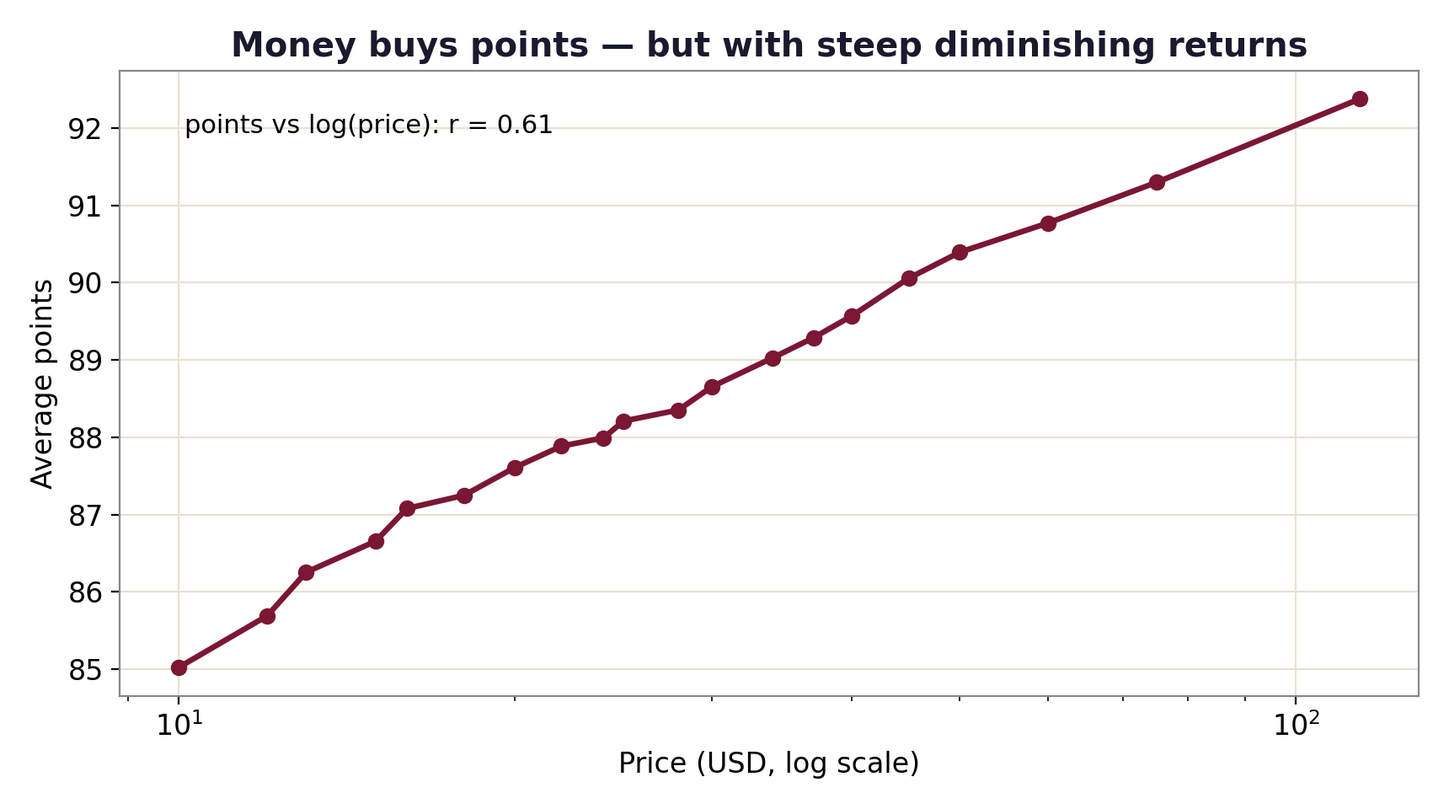
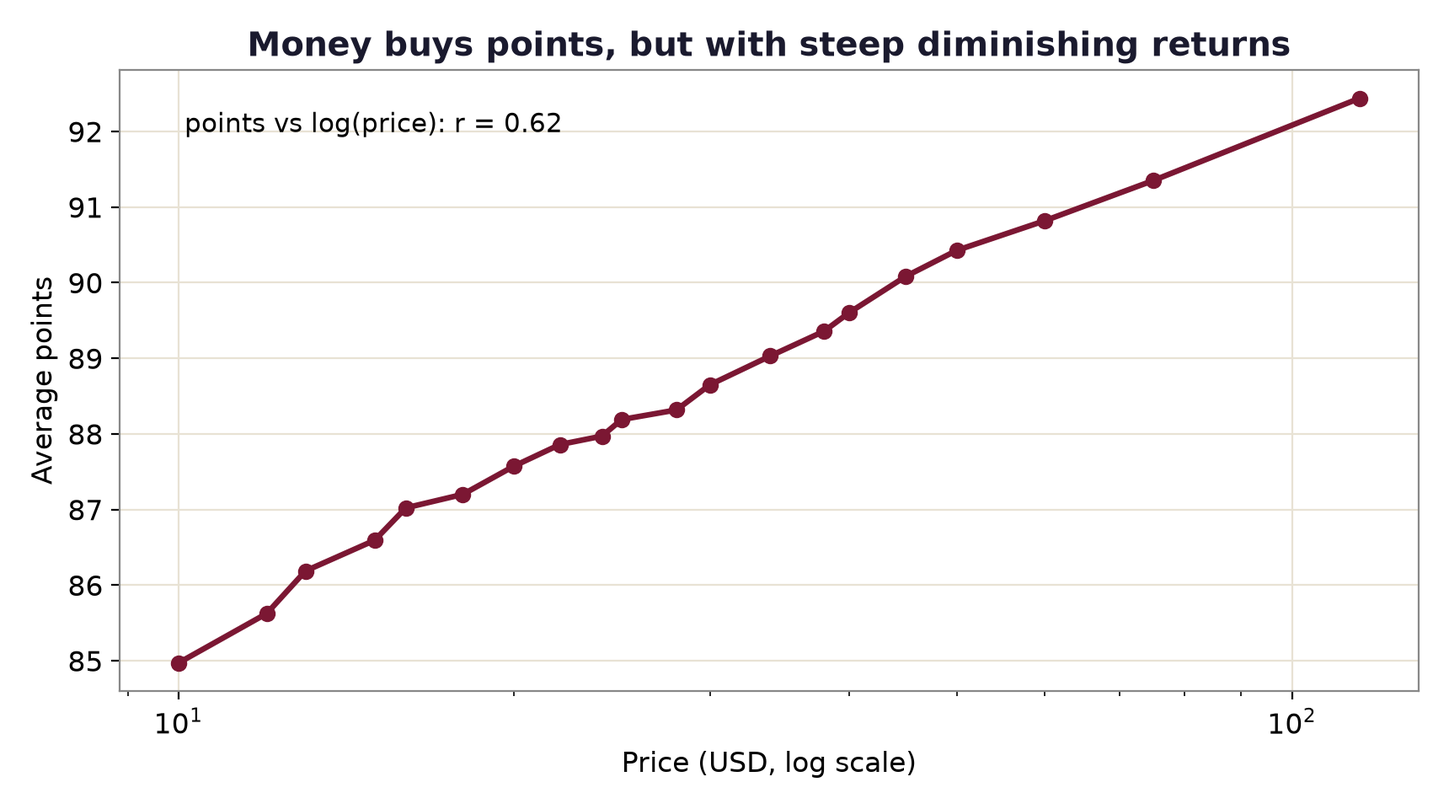
Drop duplicate reviews and update every published number
The source CSV repeats 9,983 reviews word for word. analyze.py now drops
exact duplicates, leaving 119,988 reviews. Share scoring 84 to 92 moves
from 85.7% to 85.0%, r from 0.61 to 0.62, the $10 average from 85.3 to
85.2, the mean from 88.45 to 88.44, the vintage trend from 0.09 to 0.08
points per decade and the top taster mean from 90.0 to 90.1. Adds a dated
correction note to the README, write-up and both pages.

diff --git a/overview/index.html b/overview/index.html
@@ -4,13 +4,12 @@
 <meta charset="utf-8" />
 <meta name="viewport" content="width=device-width, initial-scale=1, viewport-fit=cover" />
 <title>Wine score inflation: the 100-point scale that works as 8 points</title>
-<meta name="description" content="In 129,971 Wine Enthusiast reviews, nothing is published below 80 and 85.7% of wines score between 84 and 92. Points rise with log price (r = 0.61), about two points for each doubling of price." />
+<meta name="description" content="In 119,988 unique Wine Enthusiast reviews, nothing is published below 80 and 85.0% of wines score between 84 and 92. Points rise with log price (r = 0.62), about two points for each doubling of price." />
 <meta name="theme-color" content="#F1ECE3" />
 <meta property="og:title" content="The 100-point wine scale uses about eight points" />
-<meta property="og:description" content="129,971 professional wine reviews. Nothing below 80, and 85.7% of wines between 84 and 92." />
+<meta property="og:description" content="119,988 professional wine reviews. Nothing below 80, and 85.0% of wines between 84 and 92." />
 <meta property="og:type" content="article" />
 <meta property="og:url" content="https://lyhjeremy.github.io/wine-score-inflation/overview/" />
-<link href="" rel="stylesheet" />
 <style>
   :root {
     --paper: #F1ECE3;
@@ -308,7 +307,7 @@
 <div class="wrap">
   <header class="masthead">
     <div class="logo"><span class="dot" aria-hidden="true"></span>Wine Score Inflation</div>
-    <div class="tagline">129,971 Wine Enthusiast reviews</div>
+    <div class="tagline">119,988 Wine Enthusiast reviews</div>
   </header>
 
   <section class="hero">
@@ -316,10 +315,10 @@
     <h1>The 100-point wine scale uses about eight points</h1>
 
     <p class="hero-sub">
-      Of 129,971 Wine Enthusiast reviews, none is published below <strong>80</strong> and
-      <strong>85.7%</strong> land between <strong>84 and 92</strong>. Inside that band,
+      Of 119,988 unique Wine Enthusiast reviews, none is published below <strong>80</strong> and
+      <strong>85.0%</strong> land between <strong>84 and 92</strong>. Inside that band,
       each doubling of price buys about two points, vintage changes almost nothing, and the
-      ten most prolific reviewers differ by <strong>3.1 points</strong> on average.
+      ten most prolific reviewers differ by <strong>3.2 points</strong> on average.
     </p>
 
     <div class="cta-row">
@@ -333,16 +332,16 @@
         <p>The lowest score in the dataset. The usable scale starts four fifths of the way up.</p>
       </div>
       <div class="claim">
-        <div class="n">85.7%</div>
+        <div class="n">85.0%</div>
         <p>Of wines score between 84 and 92, a band eight points wide.</p>
       </div>
       <div class="claim">
-        <div class="n">r = 0.61</div>
-        <p>Between points and log price. Wines near $10 average 85.3 points; wines near $100 average 91.9.</p>
+        <div class="n">r = 0.62</div>
+        <p>Between points and log price. Wines near $10 average 85.2 points; wines near $100 average 91.9.</p>
       </div>
       <div class="claim">
-        <div class="n">3.1 pts</div>
-        <p>Between the most and least generous of the ten most prolific tasters (86.9 against 90.0).</p>
+        <div class="n">3.2 pts</div>
+        <p>Between the most and least generous of the ten most prolific tasters (86.9 against 90.1).</p>
       </div>
     </div>
   </section>
@@ -367,7 +366,7 @@
 
     <div class="tag" role="group" aria-labelledby="ws-tag-h">
       <h3 id="ws-tag-h">Read a shelf tag</h3>
-      <p class="sub">against 129,971 reviews</p>
+      <p class="sub">against 119,988 reviews</p>
       <div class="inputs">
         <div>
           <label for="ws-score">Score on the tag</label>
@@ -392,12 +391,12 @@
     <h2>A floor at 80 and a hump in the high 80s</h2>
 
     <div class="bignum">8 pts</div>
-    <p class="bignum-note">The width of the band that holds 85.7% of all wines.</p>
+    <p class="bignum-note">The width of the band that holds 85.0% of all wines.</p>
 
     <p>
       The scores form a narrow hump that starts at a cliff. Nothing below 80 is published,
       which is the magazine's editorial choice and says nothing about the wines. The mean is
-      88.45 and the median is 88. A scale can be inflated in this structural sense without
+      88.44 and the median is 88. A scale can be inflated in this structural sense without
       any year-on-year creep: the bottom four fifths simply never get printed.
     </p>
     <figure>
@@ -414,11 +413,11 @@
     <p class="eyebrow">What money buys</p>
     <h2>Each doubling of price buys about two points</h2>
     <p>
-      Against the logarithm of price the correlation is <strong>r = 0.61</strong>, strong for
+      Against the logarithm of price the correlation is <strong>r = 0.62</strong>, strong for
       data this noisy. On a log axis the curve over twenty equal-count price bins is close to
-      a straight line: $10 to $20 adds 2.6 points, and $50 to about $114 adds 2.0. In dollars
+      a straight line: $10 to $20 adds 2.6 points, and $50 to about $115 adds 2.0. In dollars
       that is a steep diminishing return. A tenfold step from about <strong>$10 to about
-      $100</strong> moves the average from <strong>85.3 to 91.9</strong>, and the first ten
+      $100</strong> moves the average from <strong>85.2 to 91.9</strong>, and the first ten
       dollars of that step buy more points than the last fifty.
     </p>
     <figure>
@@ -437,19 +436,19 @@
     <h2>Vintage barely moves the score. The taster moves it more.</h2>
     <p>
       Average score by vintage, 1995 to 2016, is close to flat: a fitted slope of
-      <strong>0.09 points per decade</strong>. Good and bad years exist for a given region,
+      <strong>0.08 points per decade</strong>. Good and bad years exist for a given region,
       but they don't show in the mean of a catalog this broad.
     </p>
     <p>
       Among the ten tasters with the most reviews, average scores run from <strong>86.9 to
-      90.0</strong>. That 3.1-point spread is about half of what a tenfold price increase
+      90.1</strong>. That 3.2-point spread is about half of what a tenfold price increase
       buys, and more than a third of the band where most wines sit, from a change of author
       alone.
     </p>
     <div class="pair">
       <figure style="margin:0">
         <h3>By vintage</h3>
-        <p class="sub">0.09 points per decade</p>
+        <p class="sub">0.08 points per decade</p>
         <div class="chart" id="ws-vin"></div>
         <p class="hover" id="ws-vin-h" aria-live="polite"></p>
         <figcaption>Mean score per vintage year, with the fitted trend dashed. Early vintages
@@ -457,7 +456,7 @@
       </figure>
       <figure style="margin:0">
         <h3>By taster</h3>
-        <p class="sub">86.9 to 90.0</p>
+        <p class="sub">86.9 to 90.1</p>
         <div class="chart" id="ws-tas"></div>
         <figcaption>Mean score of the ten tasters with the most reviews. Hover a dot for the
           taster's review count.</figcaption>
@@ -480,6 +479,14 @@
       is a raw mean, so a taster who covers more expensive regions will look more generous
       for that reason alone. The price views leave out reviews with no price.
     </p>
+    <p>
+      Correction, 2026-10-29: the source file repeats 9,983 reviews word for word, and earlier
+      versions of this page counted each of them twice. With the repeats removed, the share
+      scoring 84 to 92 went from 85.7% to 85.0%, r from 0.61 to 0.62, the $10 average from 85.3
+      to 85.2, the mean from 88.45 to 88.44, the vintage trend from 0.09 to 0.08 points per
+      decade, and the top taster mean from 90.0 to 90.1 (spread 3.1 to 3.2). The 80 floor, the
+      median of 88 and the $100 average of 91.9 did not change.
+    </p>
   </section>
 
   <section class="stop stop--end">
@@ -489,20 +496,20 @@
       <h3>The scale, by the glass</h3>
       <p class="sub">from tables/summary.csv</p>
       <dl>
-        <div class="row"><dt>Reviews scored</dt><span class="lead" aria-hidden="true"></span><dd>129,971</dd></div>
+        <div class="row"><dt>Reviews scored</dt><span class="lead" aria-hidden="true"></span><dd>119,988</dd></div>
         <div class="row"><dt>Lowest score published</dt><span class="lead" aria-hidden="true"></span><dd>80</dd></div>
-        <div class="row"><dt>Mean score</dt><span class="lead" aria-hidden="true"></span><dd>88.45</dd></div>
-        <div class="row"><dt>Share scoring 84 to 92</dt><span class="lead" aria-hidden="true"></span><dd>85.7%</dd></div>
-        <div class="row"><dt>Average at about $10</dt><span class="lead" aria-hidden="true"></span><dd>85.3</dd></div>
+        <div class="row"><dt>Mean score</dt><span class="lead" aria-hidden="true"></span><dd>88.44</dd></div>
+        <div class="row"><dt>Share scoring 84 to 92</dt><span class="lead" aria-hidden="true"></span><dd>85.0%</dd></div>
+        <div class="row"><dt>Average at about $10</dt><span class="lead" aria-hidden="true"></span><dd>85.2</dd></div>
         <div class="row"><dt>Average at about $100</dt><span class="lead" aria-hidden="true"></span><dd>91.9</dd></div>
-        <div class="row"><dt>Points against log price</dt><span class="lead" aria-hidden="true"></span><dd>r = 0.61</dd></div>
-        <div class="row"><dt>Drift per decade of vintage</dt><span class="lead" aria-hidden="true"></span><dd>0.09</dd></div>
-        <div class="row"><dt>Taster means, low to high</dt><span class="lead" aria-hidden="true"></span><dd>86.9 to 90.0</dd></div>
+        <div class="row"><dt>Points against log price</dt><span class="lead" aria-hidden="true"></span><dd>r = 0.62</dd></div>
+        <div class="row"><dt>Drift per decade of vintage</dt><span class="lead" aria-hidden="true"></span><dd>0.08</dd></div>
+        <div class="row"><dt>Taster means, low to high</dt><span class="lead" aria-hidden="true"></span><dd>86.9 to 90.1</dd></div>
       </dl>
     </div>
     <dl class="specs">
       <div class="spec"><dt>Data</dt><dd>The public <code>winemag-data-130k-v2</code> Wine Enthusiast dataset, downloaded from a GitHub mirror by <code>fetch_data.py</code></dd></div>
-      <div class="spec"><dt>Sample</dt><dd>129,971 reviews with score, price, title and taster</dd></div>
+      <div class="spec"><dt>Sample</dt><dd>119,988 unique reviews with score, price, title and taster; the source file has 129,971 rows and repeats 9,983 of them, which <code>analyze.py</code> drops</dd></div>
       <div class="spec"><dt>Price model</dt><dd>Pearson correlation of points against log10 price, $4 to $500; averages at $9 to $11 and $90 to $110</dd></div>
       <div class="spec"><dt>Vintage</dt><dd>Year parsed from the title; linear fit of mean score on vintage, 1995 to 2016</dd></div>
       <div class="spec"><dt>Tasters</dt><dd>Mean score for the ten tasters with the most reviews</dd></div>
@@ -538,7 +545,7 @@
 <script>
 (function () {
   // from tables/chart_data.json (written by chart_data.py)
-  var CD = {"hist":[[80,397],[81,692],[82,1836],[83,3025],[84,6480],[85,9530],[86,12600],[87,16933],[88,17207],[89,12226],[90,15410],[91,11359],[92,9613],[93,6489],[94,3758],[95,1535],[96,523],[97,229],[98,77],[99,33],[100,19]],"price":[[10.0,85.024,6280,4.0,10.0],[12.0,85.692,5992,10.0,12.0],[13.0,86.254,6764,12.0,14.0],[15.0,86.655,6066,14.0,15.0],[16.0,87.079,6600,15.0,17.0],[18.0,87.25,4883,17.0,18.0],[20.0,87.612,9756,18.0,20.0],[22.0,87.886,4589,20.0,22.0],[24.0,87.993,4541,22.0,24.0],[25.0,88.21,5805,24.0,25.0],[28.0,88.353,5841,25.0,28.0],[30.0,88.654,6338,28.0,30.0],[34.0,89.028,7777,30.0,35.0],[37.0,89.289,3647,35.0,38.0],[40.0,89.568,6393,38.0,42.0],[45.0,90.057,6010,42.0,48.0],[50.0,90.394,7067,48.0,55.0],[60.0,90.773,5598,55.0,65.0],[75.0,91.297,5486,65.0,85.0],[114.0,92.378,5451,85.0,500.0]],"vintage":[[1995,89.4,50],[1996,88.463,67],[1997,89.116,303],[1998,87.501,551],[1999,87.616,641],[2000,87.402,758],[2001,87.392,691],[2002,87.814,366],[2003,88.405,598],[2004,88.762,1774],[2005,88.352,3613],[2006,88.216,5772],[2007,88.163,7053],[2008,88.204,7439],[2009,88.334,9875],[2010,88.262,12165],[2011,88.278,12552],[2012,88.774,15746],[2013,88.952,15874],[2014,88.867,15582],[2015,88.519,10051],[2016,87.687,3691]],"tasters":[["Michael Schachner",86.907,15134],["Anna Lee C. Iijima",88.416,4415],["Joe Czerwinski",88.536,5147],["Jim Gordon",88.626,4177],["Roger Voss",88.708,25514],["Sean P. Sullivan",88.756,4966],["Kerin O\u2019Keefe",88.868,10776],["Paul Gregutt",89.083,9532],["Virginie Boone",89.213,9537],["Matt Kettmann",90.009,6332]]};
+  var CD = {"hist":[[80,397],[81,689],[82,1814],[83,2963],[84,6225],[85,9067],[86,11526],[87,15279],[88,15291],[89,11147],[90,13893],[91,10559],[92,8951],[93,6170],[94,3625],[95,1514],[96,521],[97,228],[98,77],[99,33],[100,19]],"price":[[10.0,84.971,5916,4.0,10.0],[12.0,85.625,5572,10.0,12.0],[13.0,86.187,6222,12.0,14.0],[15.0,86.593,5557,14.0,15.0],[16.0,87.022,6059,15.0,17.0],[18.0,87.2,4507,17.0,18.0],[20.0,87.572,8914,18.0,20.0],[22.0,87.859,4231,20.0,22.0],[24.0,87.971,4133,22.0,24.0],[25.0,88.19,5320,24.0,25.0],[28.0,88.317,5368,25.0,28.0],[30.0,88.649,5780,28.0,30.0],[34.0,89.031,7110,30.0,35.0],[38.0,89.359,4188,35.0,39.0],[40.0,89.602,5041,39.0,42.0],[45.0,90.085,5565,42.0,48.0],[50.0,90.428,6547,48.0,55.0],[60.0,90.821,5171,55.0,65.0],[75.0,91.349,5104,65.0,85.0],[115.0,92.44,5197,85.0,500.0]],"vintage":[[1995,89.4,50],[1996,88.463,67],[1997,89.142,302],[1998,87.504,550],[1999,87.609,639],[2000,87.391,752],[2001,87.386,684],[2002,87.807,358],[2003,88.441,574],[2004,88.758,1714],[2005,88.346,3485],[2006,88.215,5566],[2007,88.168,6733],[2008,88.213,7020],[2009,88.346,9279],[2010,88.274,11288],[2011,88.273,11548],[2012,88.774,14360],[2013,88.951,14326],[2014,88.886,13998],[2015,88.508,8969],[2016,87.638,3310]],"tasters":[["Michael Schachner",86.857,14046],["Anna Lee C. Iijima",88.416,4017],["Joe Czerwinski",88.524,4766],["Jim Gordon",88.604,3766],["Roger Voss",88.733,23560],["Sean P. Sullivan",88.755,4461],["Kerin O\u2019Keefe",88.898,9697],["Paul Gregutt",89.094,8868],["Virginie Boone",89.221,8708],["Matt Kettmann",90.061,5730]]};
   var NS = "http://www.w3.org/2000/svg";
   function el(t, a, p) { var e = document.createElementNS(NS, t); for (var k in a) e.setAttribute(k, a[k]); if (p) p.appendChild(e); return e; }
   function tx(s, a, p) { var e = el("text", a, p); e.textContent = s; return e; }
@@ -598,9 +605,9 @@
     var max = Math.max.apply(null, CD.hist.map(function (h) { return h[1]; }));
     var bw = pw / 21, X = function (s) { return m.l + (s - 80) * bw; }, Y = function (c) { return m.t + ph - c / (max * 1.06) * ph; };
     hBox.textContent = "";
-    var svg = el("svg", { viewBox: "0 0 " + W + " " + H, role: "img", "aria-label": "Number of reviews at each score from 80 to 100. Nothing is below 80; the peak is at 87 and 88; 85.7 percent fall from 84 to 92." }, hBox);
+    var svg = el("svg", { viewBox: "0 0 " + W + " " + H, role: "img", "aria-label": "Number of reviews at each score from 80 to 100. Nothing is below 80; the peak is at 87 and 88; 85.0 percent fall from 84 to 92." }, hBox);
     el("rect", { x: X(84), y: m.t - 18, width: 9 * bw, height: ph + 18, "class": "band" }, svg);
-    tx("84 to 92: 85.7%", { x: X(88.5), y: m.t - 6, "text-anchor": "middle", "class": "ann it" }, svg);
+    tx("84 to 92: 85.0%", { x: X(88.5), y: m.t - 6, "text-anchor": "middle", "class": "ann it" }, svg);
     [0, 5000, 10000, 15000].forEach(function (c) {
       el("line", { x1: m.l, x2: m.l + pw, y1: Y(c), y2: Y(c), "class": c ? "grid" : "base" }, svg);
       tx(c ? (c / 1000) + "k" : "0", { x: m.l - 6, y: Y(c) + 4, "text-anchor": "end" }, svg);
@@ -627,7 +634,7 @@
     var lx0 = Math.log10(4), lx1 = Math.log10(500), y0 = 84, y1 = 93.5;
     var X = function (p) { return m.l + (Math.log10(p) - lx0) / (lx1 - lx0) * pw; }, Y = function (v) { return m.t + (1 - (v - y0) / (y1 - y0)) * ph; };
     pBox.textContent = "";
-    var svg = el("svg", { viewBox: "0 0 " + W + " " + H, role: "img", "aria-label": "Mean points by price bin on a log price axis, rising almost in a straight line from 85.0 at a median of $10 to 92.4 at a median of $114." }, pBox);
+    var svg = el("svg", { viewBox: "0 0 " + W + " " + H, role: "img", "aria-label": "Mean points by price bin on a log price axis, rising almost in a straight line from 85.0 at a median of $10 to 92.4 at a median of $115." }, pBox);
     [85, 87, 89, 91, 93].forEach(function (v) { el("line", { x1: m.l, x2: m.l + pw, y1: Y(v), y2: Y(v), "class": "grid" }, svg); tx(String(v), { x: m.l - 6, y: Y(v) + 4, "text-anchor": "end" }, svg); });
     [5, 10, 20, 50, 100, 200, 500].forEach(function (p) { el("line", { x1: X(p), x2: X(p), y1: m.t + ph, y2: m.t + ph + 5, "class": "base" }, svg); tx("$" + p, { x: X(p), y: m.t + ph + 19, "text-anchor": "middle" }, svg); });
     el("line", { x1: m.l, x2: m.l + pw, y1: m.t + ph, y2: m.t + ph, "class": "base" }, svg);
@@ -677,7 +684,7 @@
     var m = { l: 4, r: 8, t: 6 }, x0 = 86.5, x1 = 90.3, lw = Math.min(150, W * 0.45), pw = W - lw - m.r - 60;
     var X = function (v) { return lw + 60 + (v - x0) / (x1 - x0) * pw; };
     tBox.textContent = "";
-    var svg = el("svg", { viewBox: "0 0 " + W + " " + H, role: "img", "aria-label": "Mean score for the ten most prolific tasters, from 86.9 for Michael Schachner to 90.0 for Matt Kettmann." }, tBox);
+    var svg = el("svg", { viewBox: "0 0 " + W + " " + H, role: "img", "aria-label": "Mean score for the ten most prolific tasters, from 86.9 for Michael Schachner to 90.1 for Matt Kettmann." }, tBox);
     [87, 88, 89, 90].forEach(function (v) { el("line", { x1: X(v), x2: X(v), y1: m.t, y2: H - 22, "class": "grid" }, svg); tx(String(v), { x: X(v), y: H - 6, "text-anchor": "middle" }, svg); });
     T.forEach(function (t, i) {
       var y = m.t + i * rh + rh / 2;

diff --git a/index.html b/index.html
@@ -4,7 +4,7 @@
 <meta charset="utf-8"/>
 <meta name="viewport" content="width=device-width, initial-scale=1"/>
 <title>Wine Score Inflation: the 100-point scale that uses eight points</title>
-<meta name="description" content="In 129,971 Wine Enthusiast reviews, nothing is published below 80 and 85.7% of wines score between 84 and 92. Price buys points on a log curve, vintage barely matters, and tasters differ by 3.1 points." />
+<meta name="description" content="In 119,988 unique Wine Enthusiast reviews, nothing is published below 80 and 85.0% of wines score between 84 and 92. Price buys points on a log curve, vintage barely matters, and tasters differ by 3.2 points." />
 <link rel="stylesheet" href="assets/family.css" />
 <style>
   * { box-sizing: border-box; border-radius: 0; }
@@ -57,16 +57,16 @@
 
 <div class="wrap">
   <header>
-    <p class="house">A data story on 129,971 Wine Enthusiast reviews</p>
+    <p class="house">A data story on 119,988 Wine Enthusiast reviews</p>
     <h1>The 100-point wine scale uses about eight points</h1>
-    <p class="lede">Nothing is published below 80, and 85.7% of all wines score between 84 and 92.</p>
+    <p class="lede">Nothing is published below 80, and 85.0% of all wines score between 84 and 92.</p>
 
     <div class="scale">
-      <svg viewBox="0 0 640 150" role="img" aria-label="A scale from 0 to 100. Everything below 80 is unused; 85.7 percent of wines sit in the band from 84 to 92.">
+      <svg viewBox="0 0 640 150" role="img" aria-label="A scale from 0 to 100. Everything below 80 is unused; 85.0 percent of wines sit in the band from 84 to 92.">
         <rect class="unused" x="20" y="78" width="480" height="14" />
         <text class="unused-label" x="260" y="68" text-anchor="middle">0 to 79: never published</text>
         <rect class="band" x="524" y="54" width="48" height="38" />
-        <text class="label" x="548" y="40" text-anchor="middle">85.7%</text>
+        <text class="label" x="548" y="40" text-anchor="middle">85.0%</text>
         <line class="axis" x1="20" y1="92" x2="620" y2="92" stroke-width="2" />
         <g class="tick">
           <text x="20" y="114" text-anchor="middle">0</text>
@@ -83,9 +83,9 @@
 
   <ol class="findings">
     <li><div class="n">80</div><p>The lowest score in the dataset. The bottom four fifths of the scale are never used.</p></li>
-    <li><div class="n">85.7%</div><p>of wines score between 84 and 92. The mean is 88.45 and the median is 88.</p></li>
-    <li><div class="n">r = 0.61</div><p>between points and log price. Wines near $10 average 85.3 points and wines near $100 average 91.9.</p></li>
-    <li><div class="n">3.1 pts</div><p>between the most and least generous of the ten most prolific tasters (86.9 against 90.0), about half of what a tenfold price step buys.</p></li>
+    <li><div class="n">85.0%</div><p>of wines score between 84 and 92. The mean is 88.44 and the median is 88.</p></li>
+    <li><div class="n">r = 0.62</div><p>between points and log price. Wines near $10 average 85.2 points and wines near $100 average 91.9.</p></li>
+    <li><div class="n">3.2 pts</div><p>between the most and least generous of the ten most prolific tasters (86.9 against 90.1), about half of what a tenfold price step buys.</p></li>
   </ol>
 
   <p class="course">First</p>
@@ -95,26 +95,27 @@
 
   <p class="course">Second</p>
   <h2>Money buys points, at a falling rate</h2>
-  <p>Points correlate with log price at r = 0.61. Going from about $10 to about $100 raises the average from 85.3 to 91.9, a gain of 6.6 points. On a log price axis the rise is close to a straight line, about two points per doubling, so the cheap end of the market is where each dollar buys the most points.</p>
+  <p>Points correlate with log price at r = 0.62. Going from about $10 to about $100 raises the average from 85.2 to 91.9, a gain of 6.7 points. On a log price axis the rise is close to a straight line, about two points per doubling, so the cheap end of the market is where each dollar buys the most points.</p>
   <figure><img src="figures/02_price_vs_points.png" width="1720" height="960" alt="Average points by price bin on a log scale, rising almost in a straight line from about 85 at ten dollars to about 92 above one hundred dollars."><figcaption>Average points by price bin on a log axis.</figcaption></figure>
 
   <p class="course">Third</p>
   <h2>Vintage barely registers</h2>
-  <p>If newer wines were scored more kindly, average points would climb with vintage. From 1995 to 2016 the fitted slope is 0.09 points per decade, close to flat. The compression is in how the scale is used.</p>
-  <figure><img src="figures/03_by_vintage.png" width="1720" height="919" alt="Average points by vintage from 1995 to 2016, a nearly flat line."><figcaption>Average score by vintage year.</figcaption></figure>
+  <p>If newer wines were scored more kindly, average points would climb with vintage. From 1995 to 2016 the fitted slope is 0.08 points per decade, close to flat. The compression is in how the scale is used.</p>
+  <figure><img src="figures/03_by_vintage.png" width="1720" height="920" alt="Average points by vintage from 1995 to 2016, a nearly flat line."><figcaption>Average score by vintage year.</figcaption></figure>
 
   <p class="course">Fourth</p>
   <h2>The taster moves the number</h2>
-  <p>Among the ten tasters with the most reviews, average scores run from 86.9 to 90.0. That 3.1-point spread is more than a third of the band where most wines sit.</p>
-  <figure><img src="figures/04_by_taster.png" width="1720" height="1000" alt="Bar chart of average points for the ten most prolific tasters, from 86.9 to 90.0."><figcaption>Average points awarded by the ten most prolific tasters.</figcaption></figure>
+  <p>Among the ten tasters with the most reviews, average scores run from 86.9 to 90.1. That 3.2-point spread is more than a third of the band where most wines sit.</p>
+  <figure><img src="figures/04_by_taster.png" width="1720" height="1000" alt="Bar chart of average points for the ten most prolific tasters, from 86.9 to 90.1."><figcaption>Average points awarded by the ten most prolific tasters.</figcaption></figure>
 
   <h2>Reading a wine score</h2>
   <p>Treat the number as a coarse signal. The gap between an 88 and a 90 is about the same size as the gap between two tasters, so it says little on its own. If you shop for value, the low end of the price curve is where points are cheapest.</p>
 
   <div class="method">
     <h3>Data and method</h3>
-    <p>The public <code>winemag-data-130k-v2</code> Wine Enthusiast dataset (<a href="https://www.kaggle.com/datasets/zynicide/wine-reviews">Kaggle</a>, downloaded from a GitHub mirror), 129,971 reviews. Vintage is parsed from each wine's title.</p>
+    <p>The public <code>winemag-data-130k-v2</code> Wine Enthusiast dataset (<a href="https://www.kaggle.com/datasets/zynicide/wine-reviews">Kaggle</a>, downloaded from a GitHub mirror). The file has 129,971 rows, but 9,983 repeat an earlier review exactly, so the analysis uses the 119,988 unique reviews. Vintage is parsed from each wine's title.</p>
     <p>Limitation: this is one snapshot from one publication with no review dates, so it cannot measure scores drifting upward over time. The inflation measured here is structural: an 80 floor, a narrow band, and the price, vintage and taster effects inside it. Reproduce with <code>fetch_data.py</code> and <code>analyze.py</code> in the <a href="https://github.com/lyhjeremy/wine-score-inflation">repo</a>.</p>
+    <p>Correction, 2026-10-29: earlier versions counted the 9,983 repeated reviews twice. With them removed, the share scoring 84 to 92 went from 85.7% to 85.0%, r from 0.61 to 0.62, the $10 average from 85.3 to 85.2, the mean from 88.45 to 88.44, the vintage trend from 0.09 to 0.08 points per decade, and the top taster mean from 90.0 to 90.1 (spread 3.1 to 3.2). The 80 floor, the median of 88 and the $100 average of 91.9 did not change.</p>
   </div>
 
   <footer>MIT License · © 2026 Jeremy Lee · <a href="overview/">Full writeup</a> · <a href="https://github.com/lyhjeremy/wine-score-inflation">Source on GitHub</a></footer>

diff --git a/analyze.py b/analyze.py
@@ -1,7 +1,7 @@
 """
 analyze.py - Wine Score Inflation: the 100-point scale that isn't
 =================================================================
-Using ~130k Wine Enthusiast reviews, we ask what a wine "score" really means:
+Using about 120k unique Wine Enthusiast reviews, we ask what a wine "score" really means:
 how compressed the scale is, what a point costs, whether recent vintages score
 higher, and how much the reviewer matters.
 
@@ -24,7 +24,8 @@ plt.rcParams.update({"figure.dpi": 200, "savefig.dpi": 200, "font.size": 12,
 
 
 def load():
-    df = pd.read_csv(os.path.join(HERE, "data", "winemag-data-130k-v2.csv"))
+    df = pd.read_csv(os.path.join(HERE, "data", "winemag-data-130k-v2.csv"), index_col=0)
+    df = df.drop_duplicates()  # the source file repeats 9,983 reviews word for word; count each once
     df["points"] = pd.to_numeric(df["points"], errors="coerce")
     df["price"] = pd.to_numeric(df["price"], errors="coerce")
     df["vintage"] = df["title"].str.extract(r"(19\d\d|20[01]\d)").astype(float)
@@ -64,7 +65,7 @@ def main():
     ax.plot(g.price, g.points, "-o", color=WINE, lw=2.4, ms=6)
     ax.set_xscale("log")
     ax.set_xlabel("Price (USD, log scale)"); ax.set_ylabel("Average points")
-    ax.set_title("Money buys points — but with steep diminishing returns", color=INK, weight="bold")
+    ax.set_title("Money buys points, but with steep diminishing returns", color=INK, weight="bold")
     ax.text(0.05, 0.9, f"points vs log(price): r = {r:.2f}", transform=ax.transAxes, fontsize=11)
     p10, p100 = d[d.price.between(9, 11)].points.mean(), d[d.price.between(90, 110)].points.mean()
     fig.tight_layout(); fig.savefig(f"{FIG}/02_price_vs_points.png"); plt.close(fig)

diff --git a/writeup.md b/writeup.md
@@ -1,22 +1,26 @@
 # Wine score inflation: the 100-point scale that uses eight points
 
-The lowest score in 129,971 Wine Enthusiast reviews is 80. Nothing below it is ever published, and 85.7% of wines land between 84 and 92, so the scale that reads like a grade out of 100 works in practice as a band about eight points wide.
+The lowest score in 119,988 unique Wine Enthusiast reviews is 80. Nothing below it is ever published, and 85.0% of wines land between 84 and 92, so the scale that reads like a grade out of 100 works in practice as a band about eight points wide.
 
 I hold the WSET Level 3 award in wines, and the course teaches you to judge quality on a short ladder (faulty, poor, acceptable, good, very good, outstanding). A 92 on a shelf talker implies something finer than that, with the lower half of the scale available for wines that earn it. This study checks whether the lower half is used at all.
 
 ## The data
 
-The reviews are the public `winemag-data-130k-v2` Wine Enthusiast dataset, which `fetch_data.py` downloads from a GitHub mirror of the Kaggle set. Each review has points (80 to 100), a price, a title that usually contains the vintage year, and the taster's name.
+The reviews are the public `winemag-data-130k-v2` Wine Enthusiast dataset, which `fetch_data.py` downloads from a GitHub mirror of the Kaggle set. Each review has points (80 to 100), a price, a title that usually contains the vintage year, and the taster's name. The file has 129,971 rows, but 9,983 of them repeat an earlier review exactly, so the analysis drops them and works from 119,988 reviews.
 
 ## What the scores do
 
-The mean is 88.45 and the median 88. With an 80 floor and most of the mass between 84 and 92, almost everything that happens in a wine score happens inside those eight points.
+The mean is 88.44 and the median 88. With an 80 floor and most of the mass between 84 and 92, almost everything that happens in a wine score happens inside those eight points.
 
-Price explains a good share of where a wine falls in the band. For wines priced $4 to $500, points correlate with log price at r = 0.61; wines at about $10 average 85.3 points and wines at about $100 average 91.9, a gain of 6.6 points for a tenfold price increase. Over 20 equal-count price bins the curve is close to a straight line on a log price axis: $10 to $20 adds 2.6 points and $50 to about $114 adds 2.0, so each doubling buys about two points. The top bin runs from $85 to $500, so the bins can't show what happens above $100. (An earlier version of this note said the curve flattens after $100; the bin data in `tables/chart_data.json` doesn't support that.)
+Price explains a good share of where a wine falls in the band. For wines priced $4 to $500, points correlate with log price at r = 0.62; wines at about $10 average 85.2 points and wines at about $100 average 91.9, a gain of 6.7 points for a tenfold price increase. Over 20 equal-count price bins the curve is close to a straight line on a log price axis: $10 to $20 adds 2.6 points and $50 to about $115 adds 2.0, so each doubling buys about two points. The top bin runs from $85 to $500, so the bins can't show what happens above $100. (An earlier version of this note said the curve flattens after $100; the bin data in `tables/chart_data.json` doesn't support that.)
 
-Vintage barely moves anything. Mean score by vintage from 1995 to 2016 rises 0.09 points per decade (r = 0.10 across the yearly means), so the compression is built into the scale; newer vintages are not scoring their way into it.
+Vintage barely moves anything. Mean score by vintage from 1995 to 2016 rises 0.08 points per decade (r = 0.10 across the yearly means), so the compression is built into the scale; newer vintages are not scoring their way into it.
 
-The taster moves the score more than the vintage does. Among the ten tasters with the most reviews, mean scores run from 86.9 to 90.0, a spread of 3.1 points. That is about half the effect of the $10 to $100 step and more than a third of the 84 to 92 band.
+The taster moves the score more than the vintage does. Among the ten tasters with the most reviews, mean scores run from 86.9 to 90.1, a spread of 3.2 points. That is about half the effect of the $10 to $100 step and more than a third of the 84 to 92 band.
+
+## Correction, 2026-10-29
+
+The source CSV repeats 9,983 reviews word for word, and earlier versions of this analysis counted each of them twice. `analyze.py` now drops exact duplicates, which leaves 119,988 reviews. These numbers moved: the share scoring 84 to 92 went from 85.7% to 85.0%, points against log price from r = 0.61 to 0.62, the average at about $10 from 85.3 to 85.2, the mean score from 88.45 to 88.44, the vintage trend from 0.09 to 0.08 points per decade, and the top taster mean from 90.0 to 90.1 (so the taster spread went from 3.1 to 3.2 points). The 80 floor, the median of 88 and the $100 average of 91.9 did not change.
 
 ## Limitations
 

diff --git a/README.md b/README.md
@@ -1,6 +1,6 @@
 # Wine score inflation
 
-A study of 129,971 Wine Enthusiast reviews. The 100-point wine scale turns out to be about eight points wide in practice.
+A study of 119,988 unique Wine Enthusiast reviews (the source file has 129,971 rows and repeats 9,983 of them). The 100-point wine scale turns out to be about eight points wide in practice.
 
 [Live site](https://lyhjeremy.github.io/wine-score-inflation/) · [Write-up](https://lyhjeremy.github.io/wine-score-inflation/overview/)
 
@@ -11,17 +11,21 @@ Design and copy follow [these standards](https://github.com/lyhjeremy/lyhjeremy/
 | Measure | Value |
 |---|---|
 | Lowest published score | 80 |
-| Share of wines scoring 84 to 92 | 85.7% |
-| Points against log price | r = 0.61 |
-| Average at about $10 / about $100 | 85.3 / 91.9 points |
-| Vintage trend, 1995 to 2016 | 0.09 points per decade |
-| Spread between the ten most prolific tasters | 3.1 points (86.9 to 90.0) |
+| Share of wines scoring 84 to 92 | 85.0% |
+| Points against log price | r = 0.62 |
+| Average at about $10 / about $100 | 85.2 / 91.9 points |
+| Vintage trend, 1995 to 2016 | 0.08 points per decade |
+| Spread between the ten most prolific tasters | 3.2 points (86.9 to 90.1) |
 
 ![Histogram of wine scores with a hard floor at 80 and most wines between 84 and 92](figures/01_distribution.png)
 
+## Correction, 2026-10-29
+
+The source CSV repeats 9,983 reviews word for word, and earlier versions of this analysis counted each of them twice. `analyze.py` now drops exact duplicates, which leaves 119,988 reviews. These numbers moved: the share scoring 84 to 92 went from 85.7% to 85.0%, points against log price from r = 0.61 to 0.62, the average at about $10 from 85.3 to 85.2, the mean score from 88.45 to 88.44, the vintage trend from 0.09 to 0.08 points per decade, and the top taster mean from 90.0 to 90.1 (so the taster spread went from 3.1 to 3.2 points). The 80 floor, the median of 88 and the $100 average of 91.9 did not change.
+
 ## Method
 
-`analyze.py` loads the reviews with pandas, coerces points and price to numbers, and pulls the vintage year out of each title with a regular expression. It then computes four things:
+`analyze.py` loads the reviews with pandas, drops the 9,983 rows that repeat an earlier review exactly, coerces points and price to numbers, and pulls the vintage year out of each title with a regular expression. It then computes four things:
 
 1. The score distribution: minimum, mean, median and the share of wines from 84 to 92.
 2. Price against points: the Pearson correlation of points with log10 price for wines from $4 to $500, the mean score at $9 to $11 and at $90 to $110, and a curve over 20 equal-count price bins.
@@ -36,7 +40,7 @@ Stack: Python, pandas, NumPy, SciPy, matplotlib.
 
 ```bash
 pip install -r requirements.txt
-python fetch_data.py     # downloads the ~130k-review CSV to data/ (git-ignored)
+python fetch_data.py     # downloads the review CSV to data/ (git-ignored)
 python analyze.py        # writes figures/ and tables/summary.csv
 python chart_data.py     # writes tables/chart_data.json for the write-up charts
 ```
